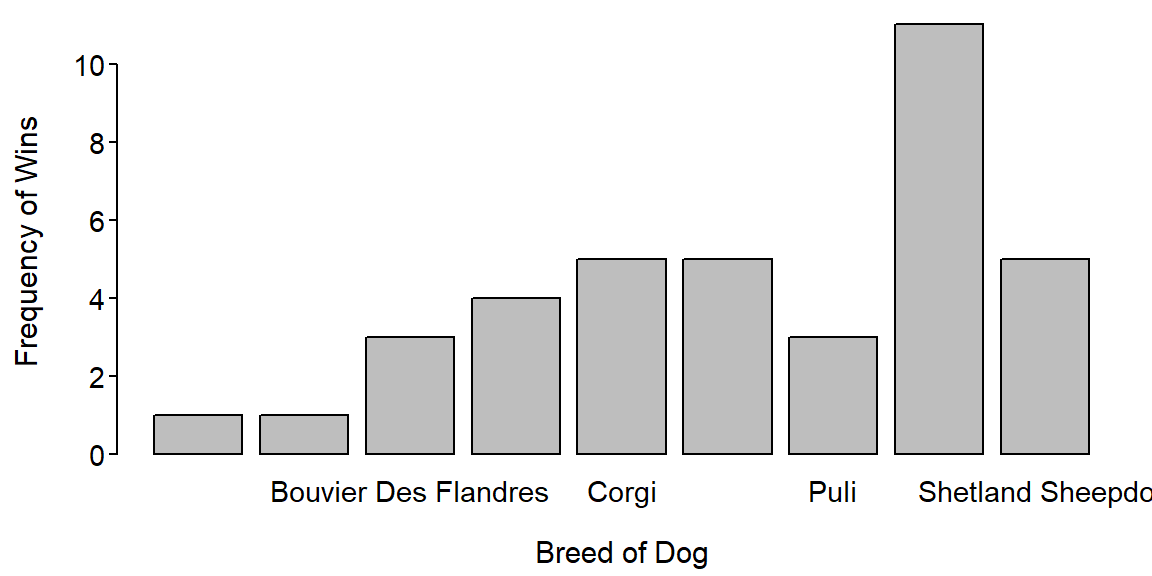
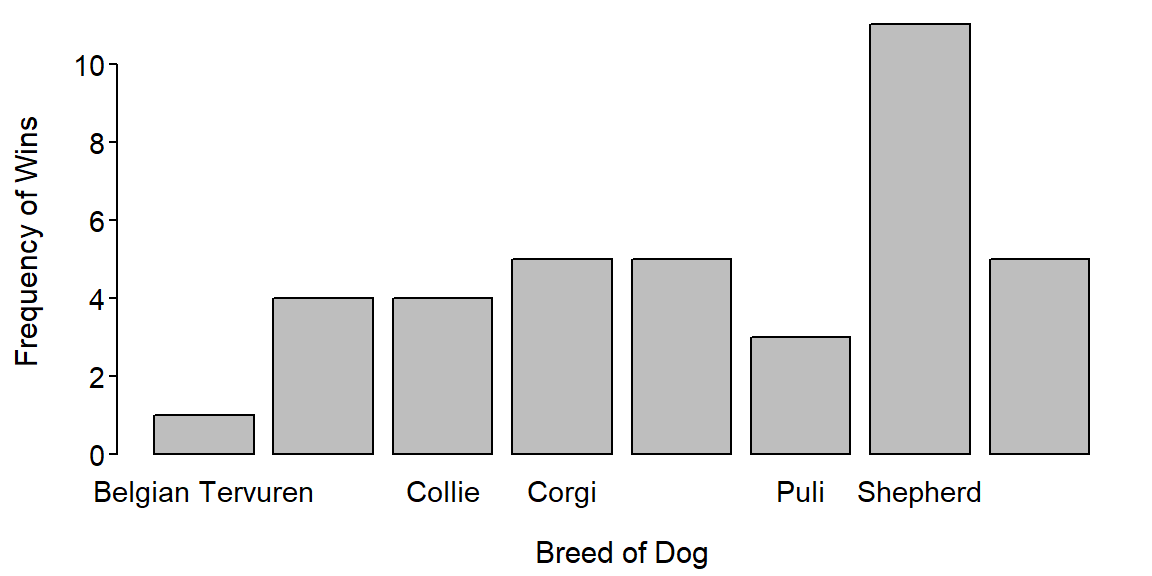
again

diff --git a/modules/CE/KEY_UnivSum_CE.html b/modules/CE/KEY_UnivSum_CE.html
@@ -1,7 +1,7 @@
 ---
 layout: page
 title: "Answer Key"
-subtitle: "Summaries for One Quantitative Variable CE"
+subtitle: "Univariate Summaries CE"
 author: Derek H. Ogle
 css: "/css/modules.css"
 ---
@@ -110,23 +110,19 @@ Range is 1 to 97.
 Frequency Table
 </li>
 <pre><code>group
-                         Belgian Tervuren Bouvier Des Flandres               Collie 
-                   1                    1                    3                    4 
-               Corgi Old English Sheepdog                 Puli             Shepherd 
-                   5                    5                    3                   11 
-   Shetland Sheepdog 
-                   5 </code></pre>
+    Belgian Tervuren Bouvier Des Flandres               Collie                Corgi 
+                   1                    4                    4                    5 
+Old English Sheepdog                 Puli             Shepherd    Shetland Sheepdog 
+                   5                    3                   11                    5 </code></pre>
 <li>
 Percentage Table
 </li>
 <pre class="r"><code>&gt; percTable(tbl,digits=1)</code></pre>
 <pre><code>group
-                         Belgian Tervuren Bouvier Des Flandres               Collie 
-                 2.6                  2.6                  7.9                 10.5 
-               Corgi Old English Sheepdog                 Puli             Shepherd 
-                13.2                 13.2                  7.9                 28.9 
-   Shetland Sheepdog 
-                13.2 </code></pre>
+    Belgian Tervuren Bouvier Des Flandres               Collie                Corgi 
+                 2.6                 10.5                 10.5                 13.2 
+Old English Sheepdog                 Puli             Shepherd    Shetland Sheepdog 
+                13.2                  7.9                 28.9                 13.2 </code></pre>
 <li>
 Bar Chart
 </li>
